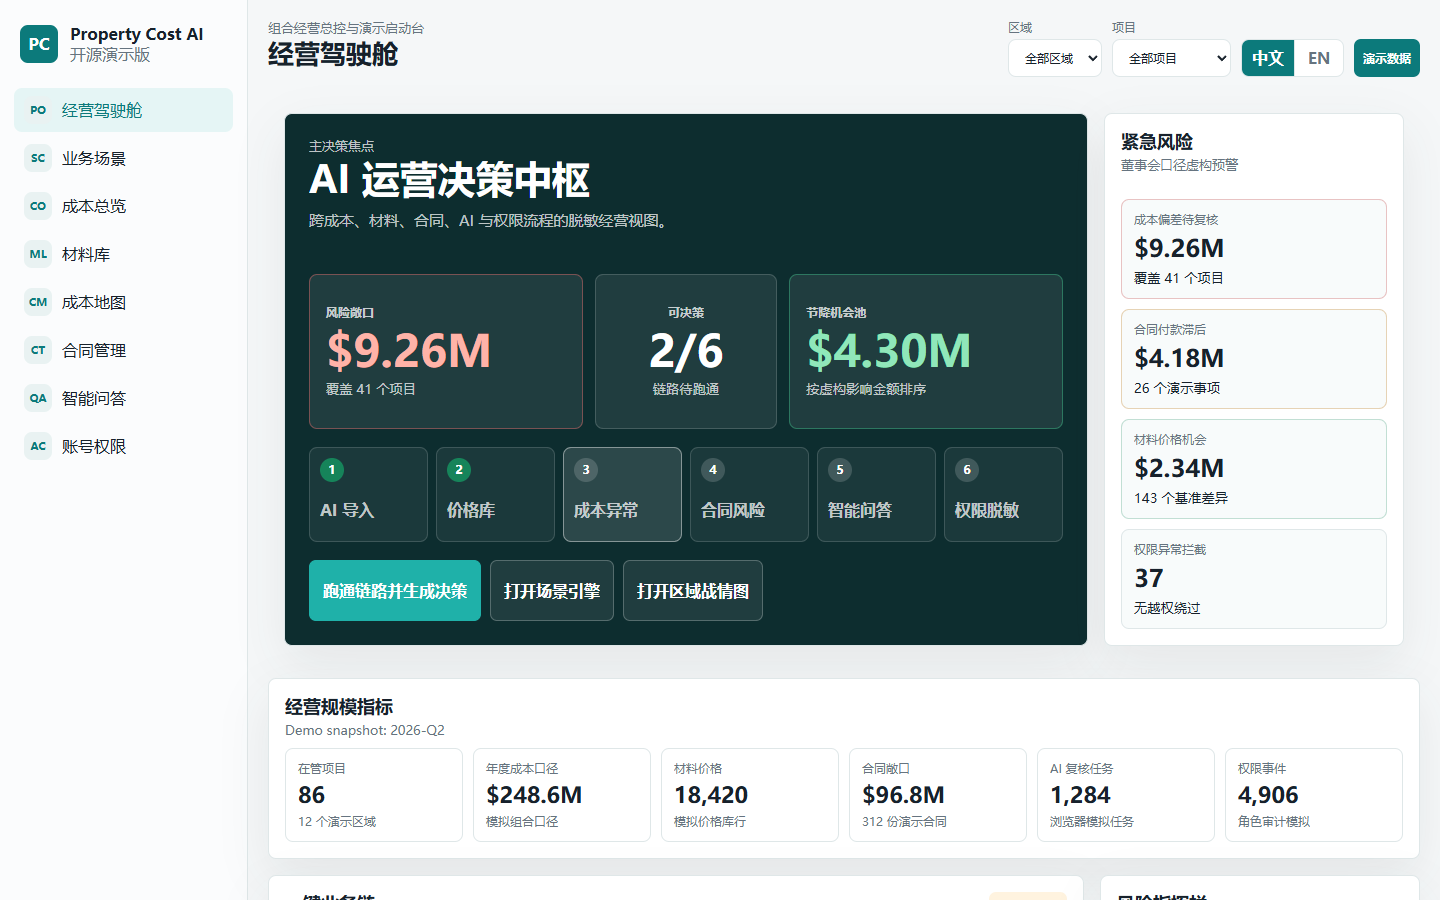
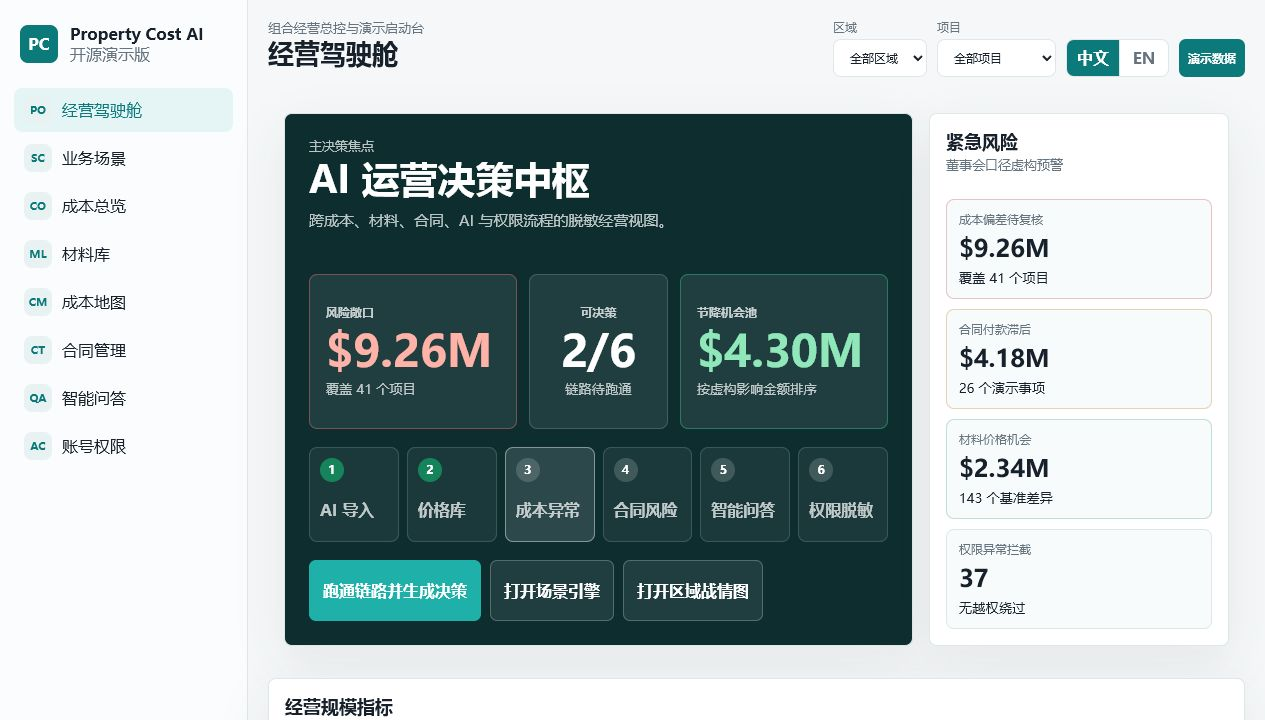
Add README demo screenshots

diff --git a/README.md b/README.md
@@ -31,8 +31,30 @@ Local routes after starting the server:
 - `http://127.0.0.1:4173/#scenarios`
 - `http://127.0.0.1:4173/#costMap`
 - `http://127.0.0.1:4173/#contracts`
-- `http://127.0.0.1:4173/#assistant`
+- `http://127.0.0.1:4173/#smartQA`
 - `http://127.0.0.1:4173/#accounts`
+
+## Screenshots
+
+### Executive Cockpit
+
+![Executive cockpit](public/assets/cockpit-preview.png)
+
+### Guided Business Scenario
+
+![Guided business scenario](public/assets/readme-scenarios.png)
+
+### Regional Cost Map
+
+![Regional cost map](public/assets/readme-cost-map.png)
+
+### Contract Management
+
+![Contract management](public/assets/readme-contracts.png)
+
+### Smart Q&A
+
+![Smart Q&A](public/assets/readme-assistant.png)
 
 ## Product Story
 
